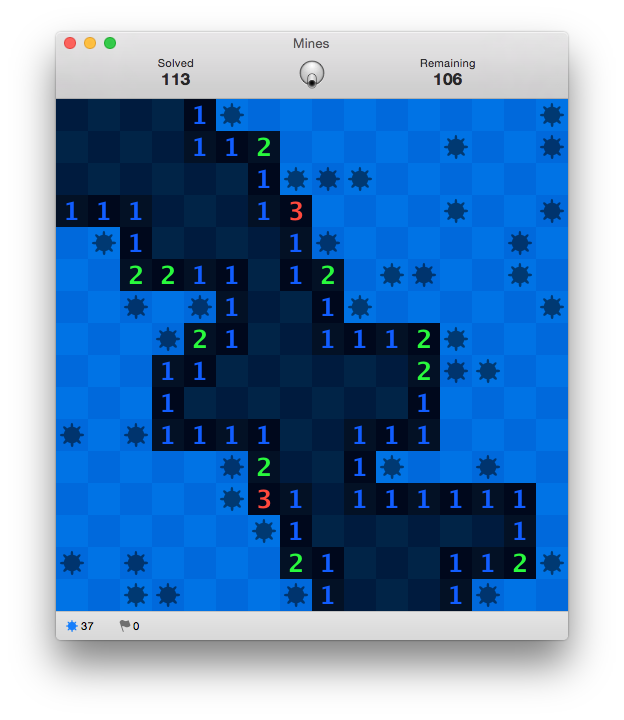
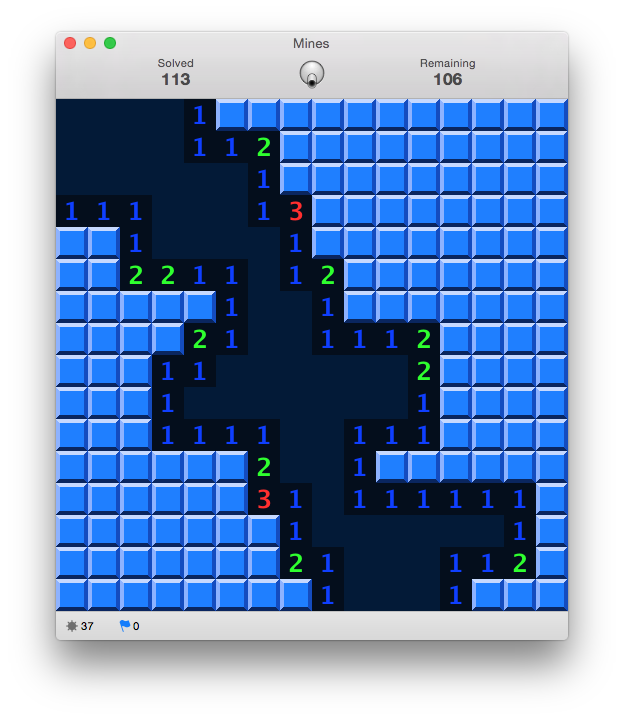
Initial 3D look support.

diff --git a/sources/Board.m b/sources/Board.m
@@ -240,22 +240,49 @@ BOOL GameSnapshotValues(void *snapshot, size_t snapshotSize, GameValues *values)
 
 	- (void) updateCellColorsForKey: (NSUInteger) key
 		{
-		CGFloat  brightnessDelta = _theme.cellBrightnessDelta;
-		GLfloat* color1		 = &_cellColors1[key * 3];
-		GLfloat* color2		 = &_cellColors2[key * 3];
+		CGFloat  delta		= _theme.cellBrightnessDelta;
+		//NSColor* color	= [_theme colorForKey: key];
+		NSColor* color		= [[_theme colorForKey: key] colorUsingColorSpace: [NSColorSpace deviceRGBColorSpace]];
+		GLfloat* color1		= &_cellColors1[key * 3];
+		GLfloat* color2		= &_cellColors2[key * 3];
 		CGFloat  components[4];
 
-		[[[_theme colorForKey: key] colorUsingColorSpace: [NSColorSpace deviceRGBColorSpace]]
-		//[[_theme colorForKey: key]
-			getComponents: components];
+		[color getComponents: components];
 
-		color2[0] = (color1[0] = components[0]) + brightnessDelta;
-		color2[1] = (color1[1] = components[1]) + brightnessDelta;
-		color2[2] = (color1[2] = components[2]) + brightnessDelta;
+		color2[0] = (color1[0] = components[0]) + delta;
+		color2[1] = (color1[1] = components[1]) + delta;
+		color2[2] = (color1[2] = components[2]) + delta;
 
 		if (color2[0] > 1.0) color2[0] = 1.0; else if (color2[0] < 0.0) color2[0] = 0.0;
 		if (color2[1] > 1.0) color2[1] = 1.0; else if (color2[1] < 0.0) color2[1] = 0.0;
 		if (color2[2] > 1.0) color2[2] = 1.0; else if (color2[2] < 0.0) color2[2] = 0.0;
+
+		if (key == kThemeColorKeyCovered)
+			{
+			NSColor *mask = [NSColor colorWithSRGBRed: 0.0 green: 0.0 blue: 0.0 alpha: 1.0];
+			[[color blendedColorWithFraction: 0.625 ofColor: mask] getComponents: components];
+			_cellEdgeColors[0][0] = components[0];
+			_cellEdgeColors[0][1] = components[1];
+			_cellEdgeColors[0][2] = components[2];
+
+			mask = [NSColor colorWithSRGBRed: 0.0 green: 0.0 blue: 0.0 alpha: 1.0];
+			[[color blendedColorWithFraction: 0.25 ofColor: mask] getComponents: components];
+			_cellEdgeColors[1][0] = components[0];
+			_cellEdgeColors[1][1] = components[1];
+			_cellEdgeColors[1][2] = components[2];
+
+			mask = [NSColor colorWithSRGBRed: 1.0 green: 1.0 blue: 1.0 alpha: 1.0];
+			[[color blendedColorWithFraction: 0.75 ofColor: mask] getComponents: components];
+			_cellEdgeColors[2][0] = components[0];
+			_cellEdgeColors[2][1] = components[1];
+			_cellEdgeColors[2][2] = components[2];
+
+			mask = [NSColor colorWithSRGBRed: 1.0 green: 1.0 blue: 1.0 alpha: 1.0];
+			[[color blendedColorWithFraction: 0.5 ofColor: mask] getComponents: components];
+			_cellEdgeColors[3][0] = components[0];
+			_cellEdgeColors[3][1] = components[1];
+			_cellEdgeColors[3][2] = components[2];
+			}
 		}
 
 
@@ -475,6 +502,12 @@ BOOL GameSnapshotValues(void *snapshot, size_t snapshotSize, GameValues *values)
 
 	static GLdouble const cellVertices[4 * 2] = {0.0, 0.0, 1.0, 0.0, 1.0, 1.0, 0.0, 1.0};
 
+	static GLdouble const cellEdgeVertices[4][4 * 2] = {
+		{0.0,	0.0,   1.0,   0.0,   0.875, 0.125, 0.125, 0.125}, // Bottom
+		{0.875, 0.125, 1.0,   0.0,   1.0,   1.0,   0.875, 0.875}, // Right
+		{0.125, 0.875, 0.875, 0.875, 1.0,   1.0,   0.0,   1.0  }, // Top
+		{0.0,	0.0,   0.125, 0.125, 0.125, 0.875, 0.0,	  1.0  }, // Left
+	};
 
 	- (void) drawRect: (NSRect) frame
 		{
@@ -635,6 +668,14 @@ BOOL GameSnapshotValues(void *snapshot, size_t snapshotSize, GameValues *values)
 				glBindTexture(GL_TEXTURE_2D, 0);
 				glVertexPointer(2, GL_DOUBLE, 0, cellVertices);
 				glDrawArrays(GL_QUADS, 0, 4);
+
+				if (!CELL_IS(DISCLOSED)) for (quint index = 0; index < 4; index++)
+					{
+					glColor3fv(&_cellEdgeColors[index][0]);
+					glVertexPointer(2, GL_DOUBLE, 0, &cellEdgeVertices[index][0]);
+					glDrawArrays(GL_QUADS, 0, 4);
+					}
+
 				glPopMatrix();
 
 				if (textureName != NULL)

diff --git a/sources/GameOverView.m b/sources/GameOverView.m
@@ -166,7 +166,7 @@ Released under the terms of the GNU General Public License v3. */
 			// Dibujamos la caja de fondo |
 			//----------------------------'
 			box.lineWidth = 2.0;
-			[[NSColor colorWithCalibratedWhite: 0.0 alpha: 0.625] setFill];
+			[[NSColor colorWithCalibratedWhite: 0.0 alpha: 0.875] setFill];
 			[white setStroke];
 			[box fill];
 			[box strokeInside];

diff --git a/sources/Board.h b/sources/Board.h
@@ -78,6 +78,7 @@ BOOL GameSnapshotValues	(void*	     snapshot,
 	NSMutableArray*	  _themeImages;
 	GLfloat		  _cellColors1[6 * 3];
 	GLfloat		  _cellColors2[6 * 3];
+	GLfloat		  _cellEdgeColors[4][3];
 	CGFloat		  _cellBrightnessDelta;
 	BoardState	  _state;
 	Q2DSize		  _coordinates;
